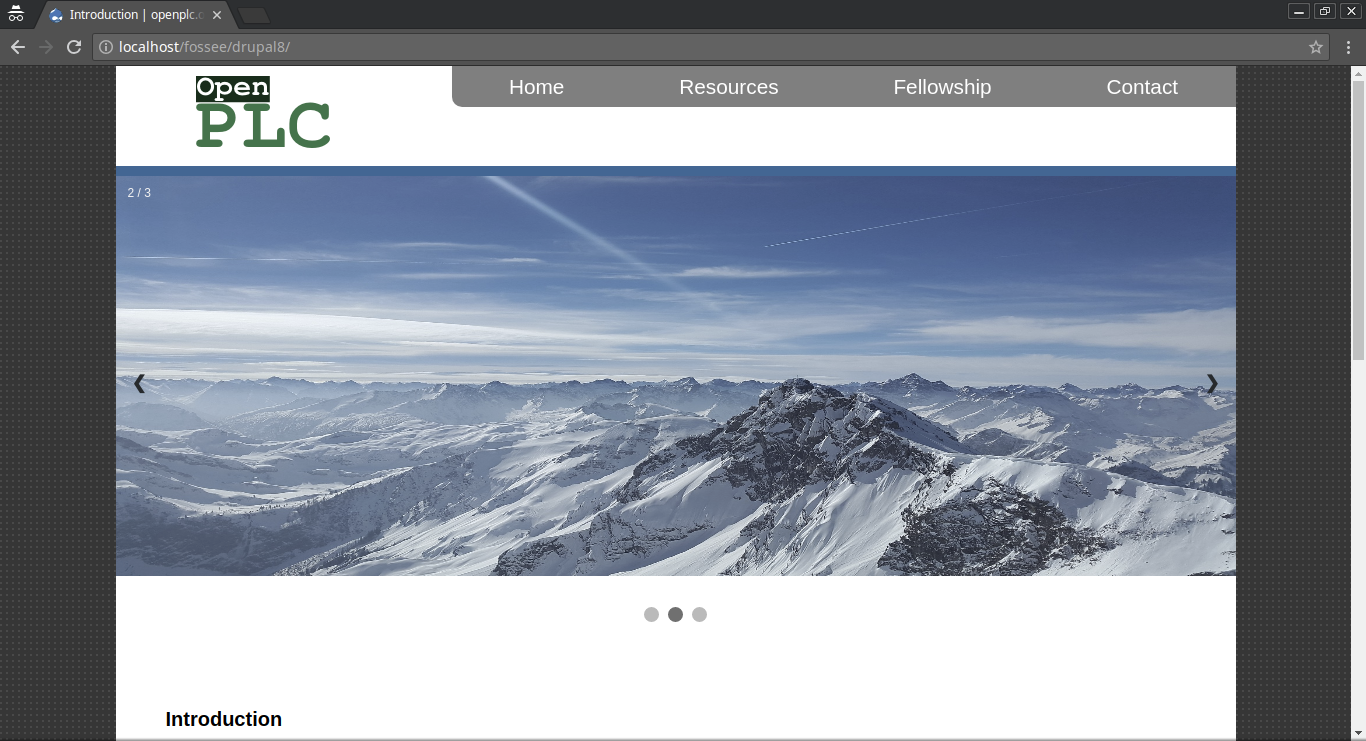
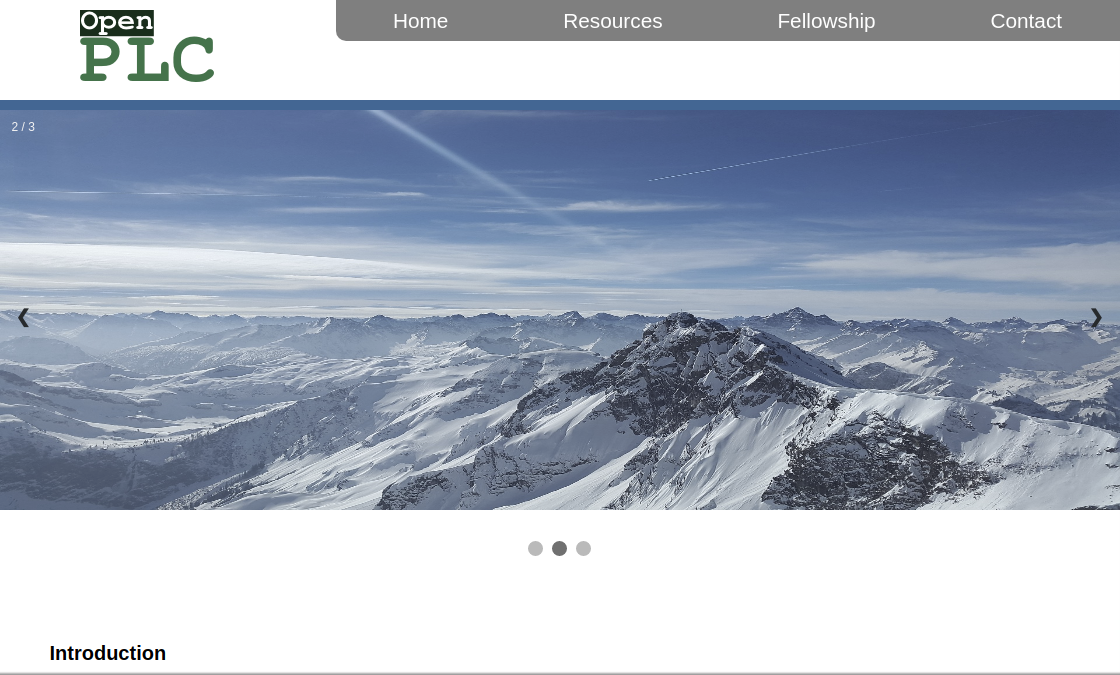
1. added right sidebar 2. made it responsive

diff --git a/css/tooplate-style.css b/css/tooplate-style.css
@@ -294,13 +294,51 @@ footer a:hover {
     width: 100%;    
 }
 
+
+
+
+
+/* specific styles */
+
+#main-content-section {
+	width: 280px;
+	display: inline-block;
+}
+
+#sidebar-second {
+	width: 250px;
+	position: relative;
+    display: inline-block;
+    vertical-align: top;
+}
+
+#sidebar-second h2 {
+	font-family: Bitter,Helvetica,Arial,sans-serif;
+    background: #214468;
+    color: #fff;
+    font-size: 14px;
+    margin-bottom: 10px;
+    text-transform: uppercase;
+    padding: 10px 10px;
+    font-weight: 700;
+	background: #214468;
+}
+
+
+
+
+/* Responsive Controller */
+
 @media (min-width: 576px) {
 	.tm-main-content { padding: 75px 50px 70px;	}
 	.tm-main-content.no-pad-b { padding: 75px 50px 0; }
 	.tm-gallery { max-width: 500px;	}
 	.tm-highlight { padding: 40px; }
 	.tm-highlight-w-icon { flex-flow: row; }
-	.tm-highlight-icon { padding: 20px 50px 0 0; }	
+	.tm-highlight-icon { padding: 20px 50px 0 0; }
+	#main-content-section {
+		width: 400px;
+	}
 }
 
 @media (min-width: 768px) {
@@ -324,18 +362,27 @@ footer a:hover {
 	.tm-highlight { padding: 50px 100px; }
 	.tm-small-pad { padding: 40px 35px; }
 	.tm-img-center-sm {	margin-left: 0;	}
+	#main-content-section {
+		width: 380px;
+	}
 }
 
 @media (min-width: 992px) {
 	.tm-site-header { height: 110px; }
 	.tm-main-nav .nav-link { padding: 5px 20px; }
 	.tm-gallery { max-width: none; }
+	#main-content-section {
+		width: 600px;
+	}
 }
 
 @media (min-width: 1200px) {
 	.container { max-width: 1120px; }
 	.tm-site-header { height: 110px; }
 	.tm-main-nav .nav-link { padding: 5px; }	
+	#main-content-section {
+		width: 700px;
+	}
 }
 
 @media (max-height: 360px) {
@@ -345,3 +392,8 @@ footer a:hover {
 		padding: 10px 15px;
 	}
 }
+
+
+
+
+
